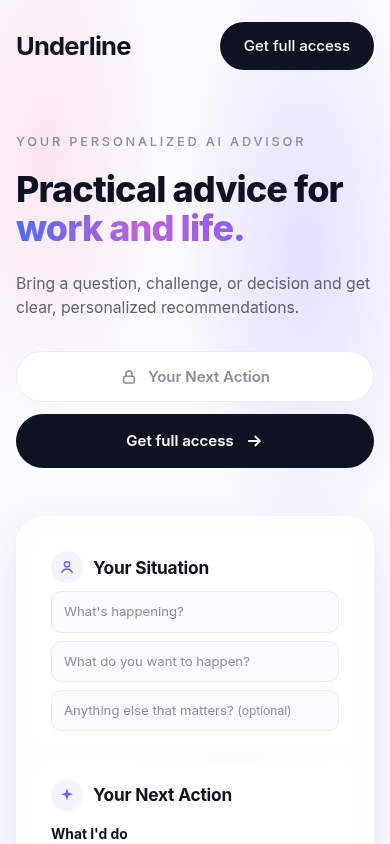
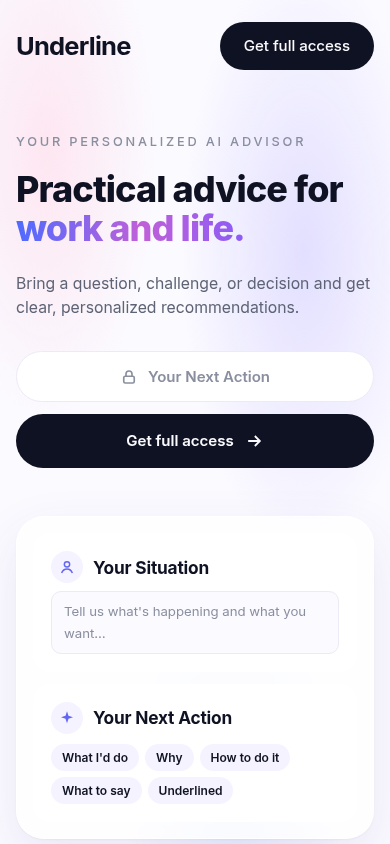
Compact hero preview

diff --git a/index.html b/index.html
@@ -152,6 +152,13 @@ footer nav{display:flex;flex-wrap:wrap;gap:8px}
 footer a{display:inline-flex;align-items:center;gap:7px;padding:7px 15px;border-radius:999px;background:var(--bg);color:var(--ink);font-weight:600;text-decoration:none}
 footer a svg{width:15px;height:15px}
 @media (max-width:640px){footer{justify-content:center;text-align:center}footer nav{justify-content:center}}
+
+.outs{flex-direction:row!important;flex-wrap:wrap;gap:6px}
+.outs li{border:0!important;padding:4px 11px!important;border-radius:999px;background:var(--tint);font-size:.8rem;font-weight:600}
+.cats{gap:2px!important}
+.cats li{padding:6px 10px!important}
+.cats .ic{width:30px;height:30px}
+.preview{align-items:start}
 </style>
 
 </head>
@@ -189,10 +196,10 @@ footer a svg{width:15px;height:15px}
         <li><span class="ic c6"><svg viewBox="0 0 24 24" fill="none" stroke="currentColor" stroke-width="2.2"><circle cx="12" cy="8" r="4"/><path d="M4 21c1.5-4 4.5-6 8-6s6.5 2 8 6"/></svg></span>Work-life balance</li>
       </ul>
       <div class="chat">
-        <div class="ans sit"><div class="anshead"><span class="spark"><svg viewBox="0 0 24 24" fill="none" stroke="currentColor" stroke-width="2.2"><circle cx="12" cy="8" r="4"/><path d="M4 21c1.5-4 4.5-6 8-6s6.5 2 8 6"/></svg></span><b>Your Situation</b></div><div class="ins"><span>What's happening?</span><span>What do you want to happen?</span><span>Anything else that matters? <i>(optional)</i></span></div></div>
+        <div class="ans sit"><div class="anshead"><span class="spark"><svg viewBox="0 0 24 24" fill="none" stroke="currentColor" stroke-width="2.2"><circle cx="12" cy="8" r="4"/><path d="M4 21c1.5-4 4.5-6 8-6s6.5 2 8 6"/></svg></span><b>Your Situation</b></div><div class="ins"><span>Tell us what's happening and what you want…</span></div></div>
         <div class="ans">
           <div class="anshead"><span class="spark"><svg viewBox="0 0 24 24" width="16" height="16" fill="currentColor"><path d="M12 2l2.2 6.8L21 11l-6.8 2.2L12 20l-2.2-6.8L3 11l6.8-2.2L12 2Z"/></svg></span><b>Your Next Action</b></div>
-          <ul class="outs"><li><b>What I'd do</b><span>One clear recommendation</span></li><li><b>Why</b><span>2–3 reasons that fit your situation</span></li><li><b>How to do it</b><span>3 concrete steps</span></li><li><b>What to say</b><span>The exact words to use</span></li><li><b>Underlined</b><span>The ideas behind it</span></li></ul>
+          <ul class="outs"><li>What I'd do</li><li>Why</li><li>How to do it</li><li>What to say</li><li>Underlined</li></ul>
         </div>
       </div>
     </div>
